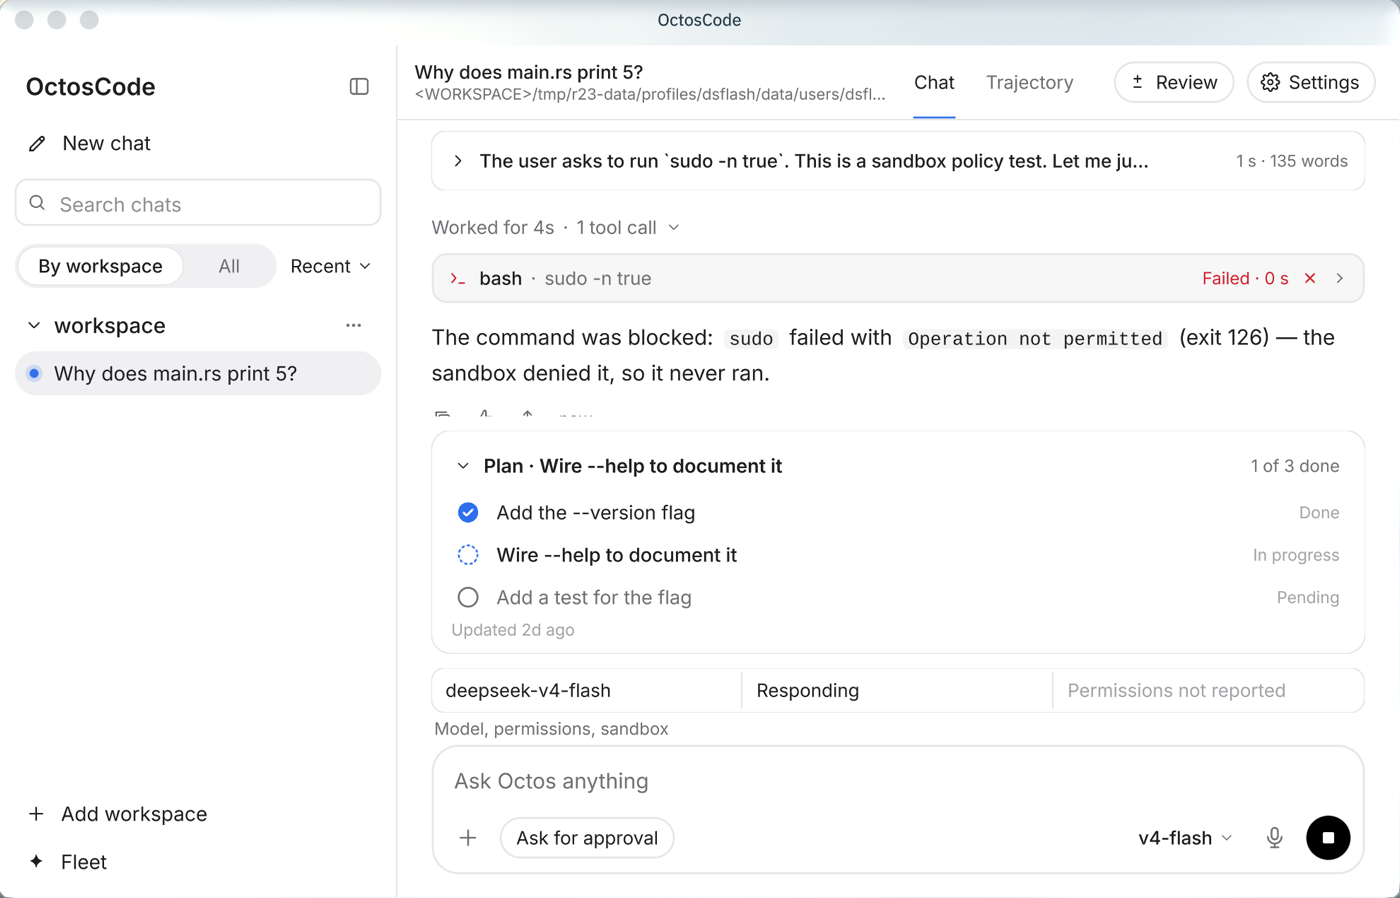
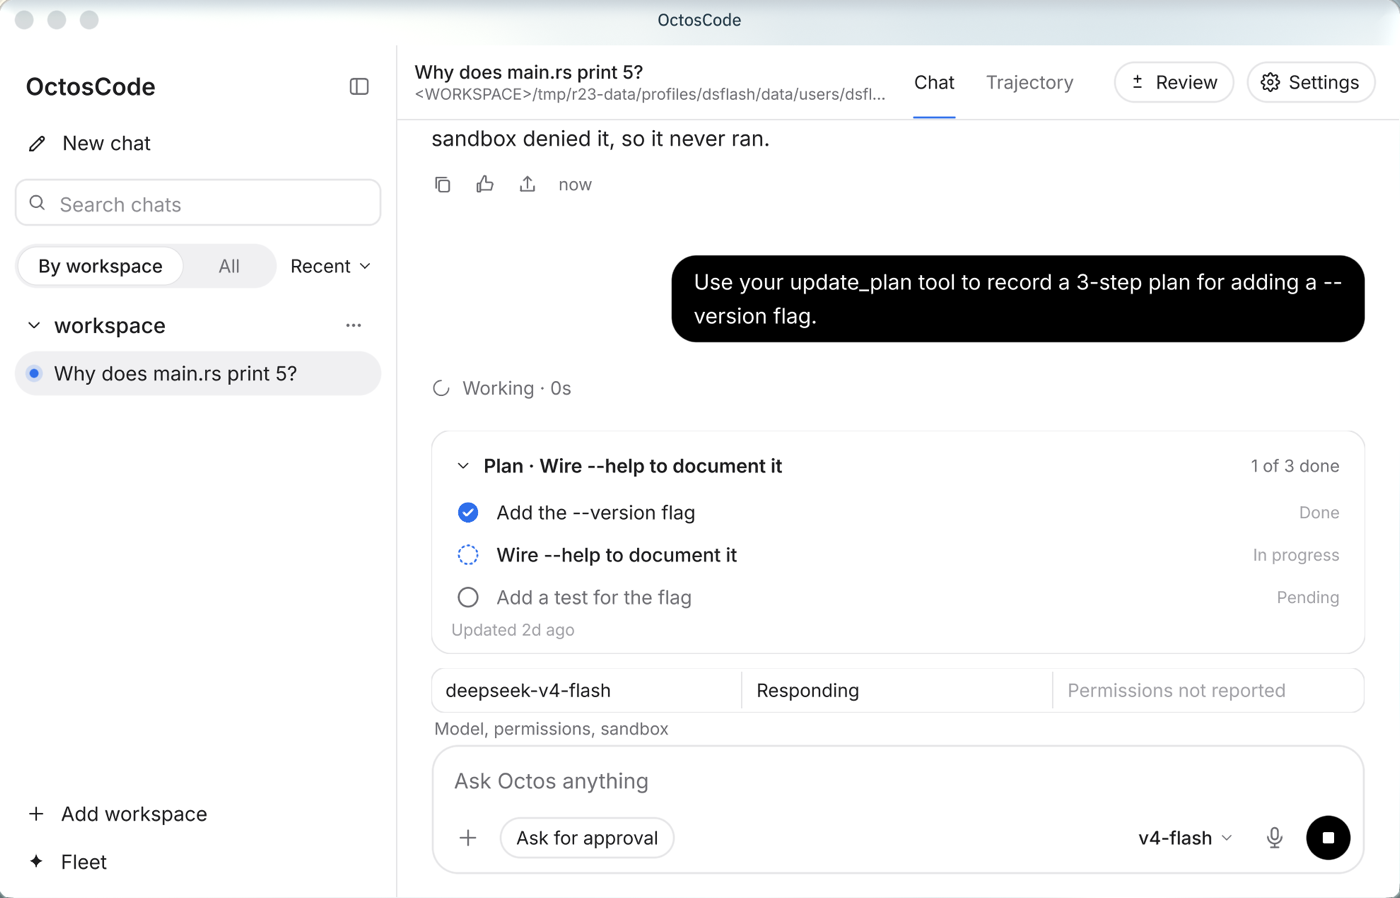
A6 after the A7 merge: the composer row also hides behind an approval/question takeover (A7's read-only-peer visibility now combines both); walk re-run on the merged tree (desktop 115/115, phone 117/117)

diff --git a/tools/walk/a6_surfaces_walk.py b/tools/walk/a6_surfaces_walk.py
@@ -522,7 +522,9 @@ def question_layout(name):
 def walk_questions():
     send_prompt(2)
     card = wait(lambda: shown("cv_q_card"), 25)
-    if not check("turn 3: the question takes the composer over", card and not shown("i0_composer_0")):
+    if not check("turn 3: the question takes the composer over", card and not shown("i0_composer_0"),
+                 f"card={bool(card)} composer={shown('i0_composer_0')} {rect('i0_composer_0')}"):
+        shot("question-failed")
         return
     check("question: title + rule hint + disabled primary with its reason",
           text("cv_q_title") == "Which color would you like to pick?"
@@ -589,7 +591,9 @@ def decided(n):
 def walk_approvals():
     send_prompt(3)
     card = wait(lambda: shown("cv_ap_card"), 25)
-    if not check("turn 4: the approval takes the composer over", card and not shown("i0_composer_0")):
+    if not check("turn 4: the approval takes the composer over", card and not shown("i0_composer_0"),
+                 f"card={bool(card)} composer={shown('i0_composer_0')} {rect('i0_composer_0')}"):
+        shot("approval-failed")
         return
     check("approval: title, risk, tool · kind, the typed command, Y / S / N",
           text("cv_ap_title") == "M9 approval fixture" and "low" in text("cv_ap_risk")

diff --git a/crates/octoscode-module/src/lib.rs b/crates/octoscode-module/src/lib.rs
@@ -3473,10 +3473,12 @@ impl OctoscodeView {
             Ok(false) => {}
         }
         // A focused peer is a read-only watch surface: the editable composer
-        // is replaced by the status row (`ComposerInput.tsx:255-265`).
+        // is replaced by the status row (`ComposerInput.tsx:255-265`). A6: an
+        // approval / question takeover replaces it too (`App.tsx:2759-2826`).
+        let takeover = screens::surfaces::takeover(&store).is_some();
         self.view
             .widget(cx, ids!(composer_row))
-            .set_visible(cx, extras.peer_readonly.is_none());
+            .set_visible(cx, extras.peer_readonly.is_none() && !takeover);
     }
 
     /// A7 — the §8 facts, read structurally from the live tree: the key focus
